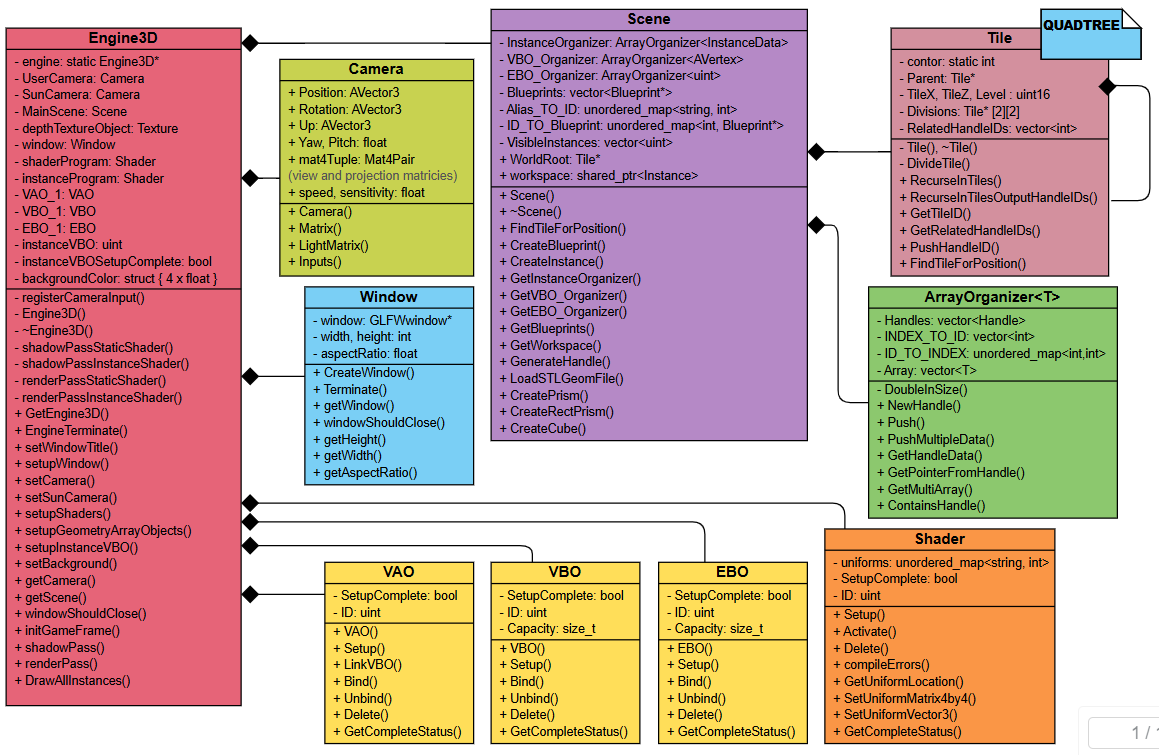
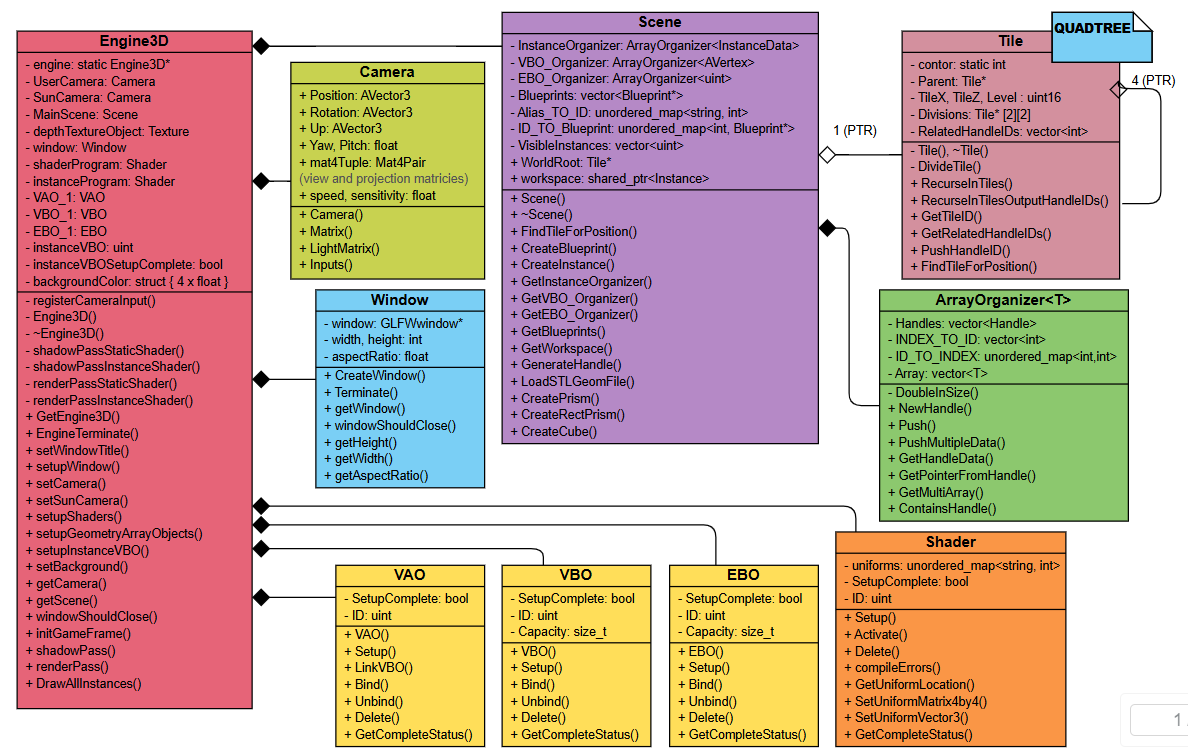
Update README

diff --git a/src/Main.cpp b/src/Main.cpp
@@ -7,6 +7,9 @@ const char* WINDOW_TITLE = "window";
 
 #include "Engine3D.h"
 
+#define Scene engine.getScene()
+#define workspace Scene->GetWorkspace()
+
 // ENVIROMENT VARIABLE, binds to SIGTERM such that Engine3D is terminated
 //  without memory leaks and the cleanup process succeds
 bool force_exit = false;
@@ -31,11 +34,11 @@ int main() {
 
 	// HERE WE CREATE OUR OBJECTS /////////////////////////////////////////////////
 	
-	Blueprint* humanMesh = engine.getScene()->LoadSTLGeomFile("resources/BASEmodel.stl", 8.0f);
+	Blueprint* humanMesh = Scene->LoadSTLGeomFile("resources/BASEmodel.stl", 8.0f);
 	if (humanMesh) {
 		std::cout << "Created: Human \n";
 		for (int i = 0; i < 4; i++) {
-			auto human = engine.getScene()->CreateInstance(humanMesh, AVector3(), 
+			auto human = Scene->CreateInstance(humanMesh, AVector3(), 
 				"Human " + std::to_string(i) //TAG NAME
 			);
 			human->SetPosition(AVector3(0.0f + i * 40.0f, 2.0f, -25.0f));
@@ -47,12 +50,12 @@ int main() {
 		delete humanMesh;
 	}
 	
-	Blueprint* cubeB = engine.getScene()->CreateCube(10.0f);
+	Blueprint* cubeB = Scene->CreateCube(10.0f);
 
 	std::shared_ptr<Instance> first = nullptr;
 	std::shared_ptr<Instance> prevI = nullptr;
 	for (int i = 0; i < 10; i++) {
-		auto I = engine.getScene()->CreateInstance(cubeB, AVector3(),
+		auto I = Scene->CreateInstance(cubeB, AVector3(),
 			"Cube " + std::to_string(i)
 		);
 		if (prevI) {
@@ -66,15 +69,15 @@ int main() {
 		prevI = I;
 	}
 
-	auto plane = engine.getScene()->CreateInstance(cubeB, AVector3(), "Plane");
+	auto plane = Scene->CreateInstance(cubeB, AVector3(), "Plane");
 	plane->SetPosition(AVector3(0.0f, -5.0f, 0.0f));
 	plane->SetSize(AVector3(20.0f, 1.0f, 20.0f));
 	plane->SetColor(AColor3(50, 255, 25, 255));
 
 	std::vector<AVertex> Verticies = { AVertex(-4.8f, 0.0f, -4.0f), AVertex(3.5f, 0.0f, -3.75f), AVertex(1.6f, 0.0f, 4.15f), AVertex(-2.65f, 0.0f, 2.75f) };
-	Blueprint* prismB = engine.getScene()->CreatePrism(Verticies, 4, 10.0f);
+	Blueprint* prismB = Scene->CreatePrism(Verticies, 4, 10.0f);
 
-	auto triPrism = engine.getScene()->CreateInstance(prismB, AVector3(), "TriPrism");
+	auto triPrism = Scene->CreateInstance(prismB, AVector3(), "TriPrism");
 	triPrism->SetColor(255, 255, 0, 255);
 	triPrism->SetPosition(AVector3(-30.0f, -5.0f, -25.0f));
 	triPrism->SetSize(AVector3(5.0f, 5.0f, 5.0f));
@@ -107,9 +110,7 @@ int main() {
 
 	int cntt = 0;
 
-	Scene* scene = engine.getScene();
-
-	scene->DEBUG_PrintInstanceHierarchy(scene->GetWorkspace(), 0, 10, false);
+	Scene->DEBUG_PrintInstanceHierarchy(workspace, 0, 10, false);
 
 	// MAIN GAME LOOP
 	while (!engine.windowShouldClose() && !force_exit) {
@@ -131,7 +132,7 @@ int main() {
 			first->SetPosition(AVector3(dt/2.0f, 5.0f, 0.0f));
 
 			std::string tag = "Human 3";
-			auto workspace_sptr = scene->GetWorkspace().lock();
+			auto workspace_sptr = workspace.lock();
 			auto child = workspace_sptr->FirstChild(tag); // Finds first Child with Tag "Human 3"
 
 			if (child) child->SetRotation(AVector3(-90.0f + dt, 0.0f, 0.0f));
@@ -172,7 +173,7 @@ int main() {
 
 	std::cout << "Game Instance Hierarchy before cleanup! \n";
 
-	scene->DEBUG_PrintInstanceHierarchy(scene->GetWorkspace(), 0, 10, true);
+	Scene->DEBUG_PrintInstanceHierarchy(workspace, 0, 10, true);
 
 	std::cout << "Cleaning up Engine3D... \n";
 

diff --git a/src/GeomInstance.cpp b/src/GeomInstance.cpp
@@ -44,9 +44,6 @@ void Instance::Update_Cascade() {
 	}
 }
 
-AVector3 Instance::GetLocalPos() {
-	return LocalPos;
-}
 void Instance::SetLocalPos() {
 	std::shared_ptr<Instance> P_ptr = Parent.lock();
 

diff --git a/Headers/GeomInstance.h b/Headers/GeomInstance.h
@@ -82,8 +82,6 @@ public:
 	void SetColor(AColor3 _Color);
 	void SetTile(Tile* _tile);
 
-	AVector3 GetLocalPos();
-
 	// ---------- SET PARENT
 
 	void SetParent(std::weak_ptr<Instance> _Parent);

diff --git a/README.md b/README.md
@@ -8,3 +8,4 @@ Comentariile din codul sursa au fost redactate in limba engleza pentru a putea f
 ## Arhitectura
 
 ![Diagrama Claselor (Top Level)](https://github.com/AndreiCd27/CRender/blob/main/Gallery/ClassDiagramTopLevel.png)
+![Diagrama Claselor (Low Level)](https://github.com/AndreiCd27/CRender/blob/main/Gallery/ClassDiagramLowLevel.png)
